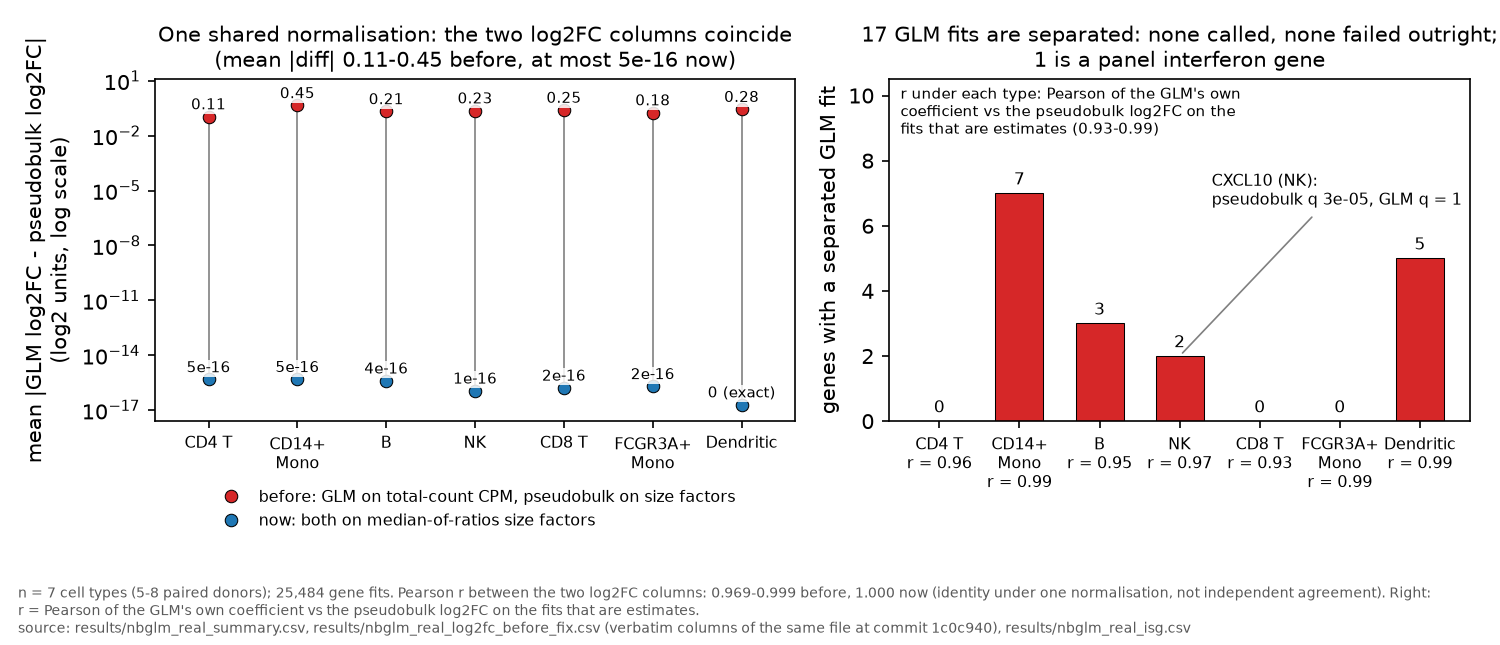
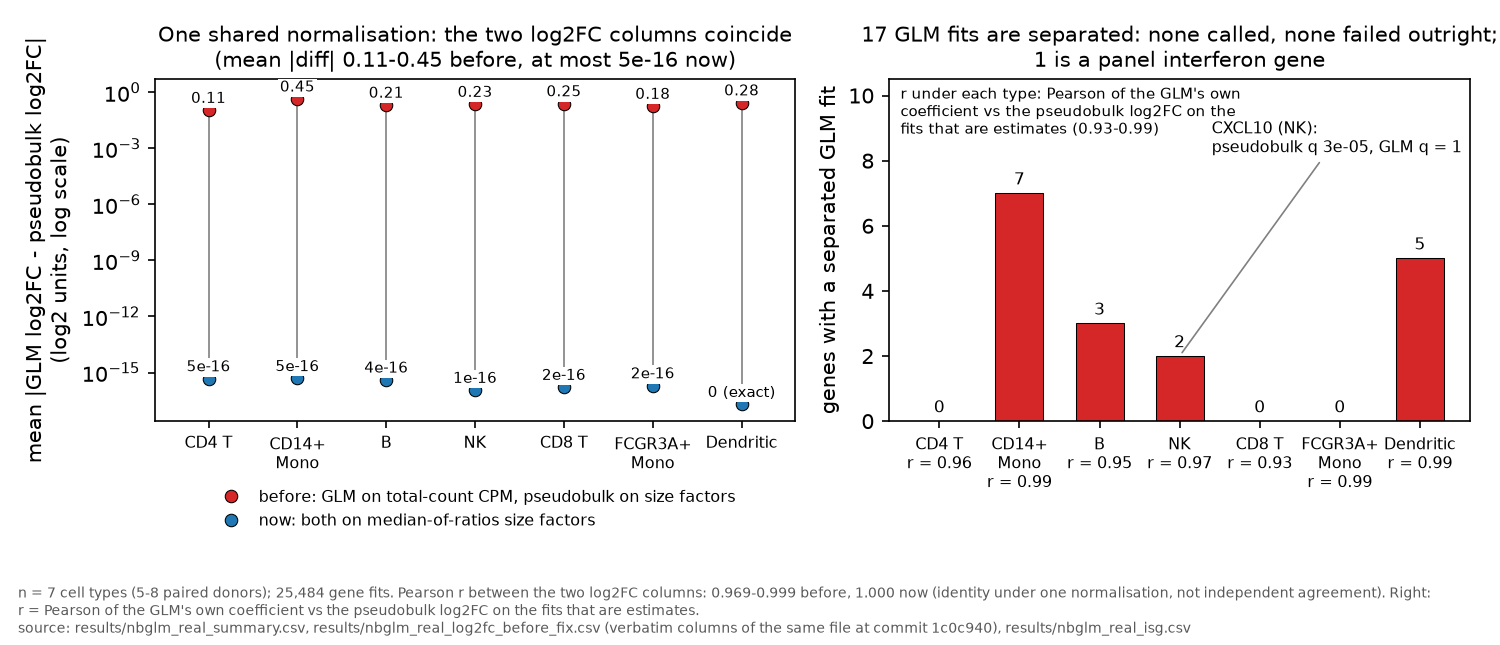
Mask the panel labels and give the axis headroom the data needs
nbglm_log2fc_agreement had three defects a vision pass found: the grey before/after
connectors ran through the blue-point value labels, the top label "0.45" was
pressed against the frame, and the CXCL10 leader line terminated on the NK "2" bar
label so the digit read as struck through.

The masks are now opaque with an explicit zorder (the earlier alpha=0.85 let the
connector show through), the top of the axis is set from the data
(max(before)*3.0) instead of a constant 12 which was too low when the largest
before-fix difference was small, and the annotation sits higher with a mask.

diff --git a/scripts/make_figures.py b/scripts/make_figures.py
@@ -718,17 +718,25 @@ def fig_log2fc_agreement():
         ax.plot(x, b_diff, "o", color="C3", mec="black", mew=0.5,
                 label="before: GLM on total-count CPM, pseudobulk on size factors")
         for xi, v in zip(x, b_diff):
+            # Opaque (not alpha 0.85) and above the stems: the grey before/after
+            # connectors are drawn at zorder 0 but a translucent mask still let
+            # them show through the digits.
             ax.text(xi, v * 1.6, f"{v:.2f}", ha="center", va="bottom", fontsize=7,
-                    bbox=dict(facecolor="white", edgecolor="none", pad=0.6, alpha=0.85))
+                    bbox=dict(facecolor="white", edgecolor="none", pad=0.9),
+                    zorder=6)
     ax.plot(x, shown, "o", color="C0", mec="black", mew=0.5,
             label="now: both on median-of-ratios size factors")
     for xi, v, s in zip(x, a_diff, shown):
         ax.text(xi, s * 1.6, "0 (exact)" if v == 0 else f"{v:.0e}", ha="center",
-                va="bottom", fontsize=7, bbox=dict(facecolor="white", edgecolor="none", pad=0.6, alpha=0.85))
+                va="bottom", fontsize=7,
+                bbox=dict(facecolor="white", edgecolor="none", pad=0.9), zorder=6)
     ax.set_yscale("log")
     # Bottom at floor/4, not floor: the exact-zero marker is drawn at 2*floor and
     # its label sat on the axis spine, clipped by the frame.
-    ax.set_ylim(floor / 4, 12)
+    # Top set from the data, not a constant: the highest red label sits at
+    # max(b_diff)*1.6, so a fixed limit of 12 left "0.45" pressed against the frame
+    # when the largest before-fix difference was small.
+    ax.set_ylim(floor / 4, max(float(b_diff.max()) * 3.0, 5.0))
     ax.set_xlim(-0.6, len(types) - 0.4)
     ax.set_xticks(x)
     ax.set_xticklabels([_tick(t) for t in types], fontsize=7.5)
@@ -783,7 +791,10 @@ def fig_log2fc_agreement():
         xi = types.index(ct)
         ax.annotate(f"{g} ({_short(ct)}):\npseudobulk q {q_pb:.0e}, GLM q = {q_nb:.0f}",
                     xy=(xi, after.set_index("cell_type").at[ct, "glm_separated"]),
-                    xytext=(xi + 0.4, max(sep) * 0.95), fontsize=7.5, ha="left",
+                    # Higher and masked: the leader line used to terminate on the
+                    # bar's own "2" value label, which then read as struck through.
+                    xytext=(xi + 0.4, max(sep) * 1.18), fontsize=7.5, ha="left",
+                    bbox=dict(facecolor="white", edgecolor="none", pad=0.8), zorder=6,
                     arrowprops={"arrowstyle": "-", "color": "grey", "lw": 0.8})
     pr = ("Pearson r between the two log2FC columns: "
           + (f"{before['pearson'].min():.3f}-{before['pearson'].max():.3f} before, "
